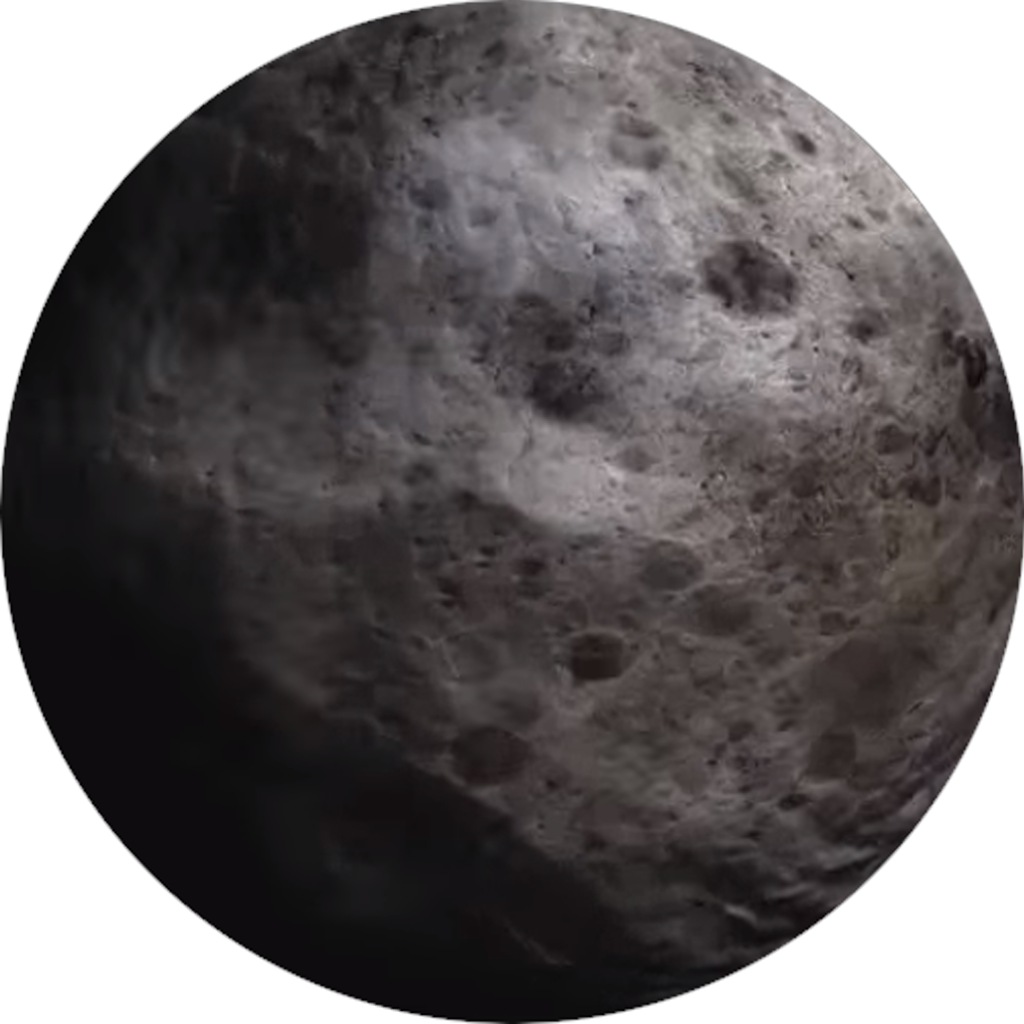
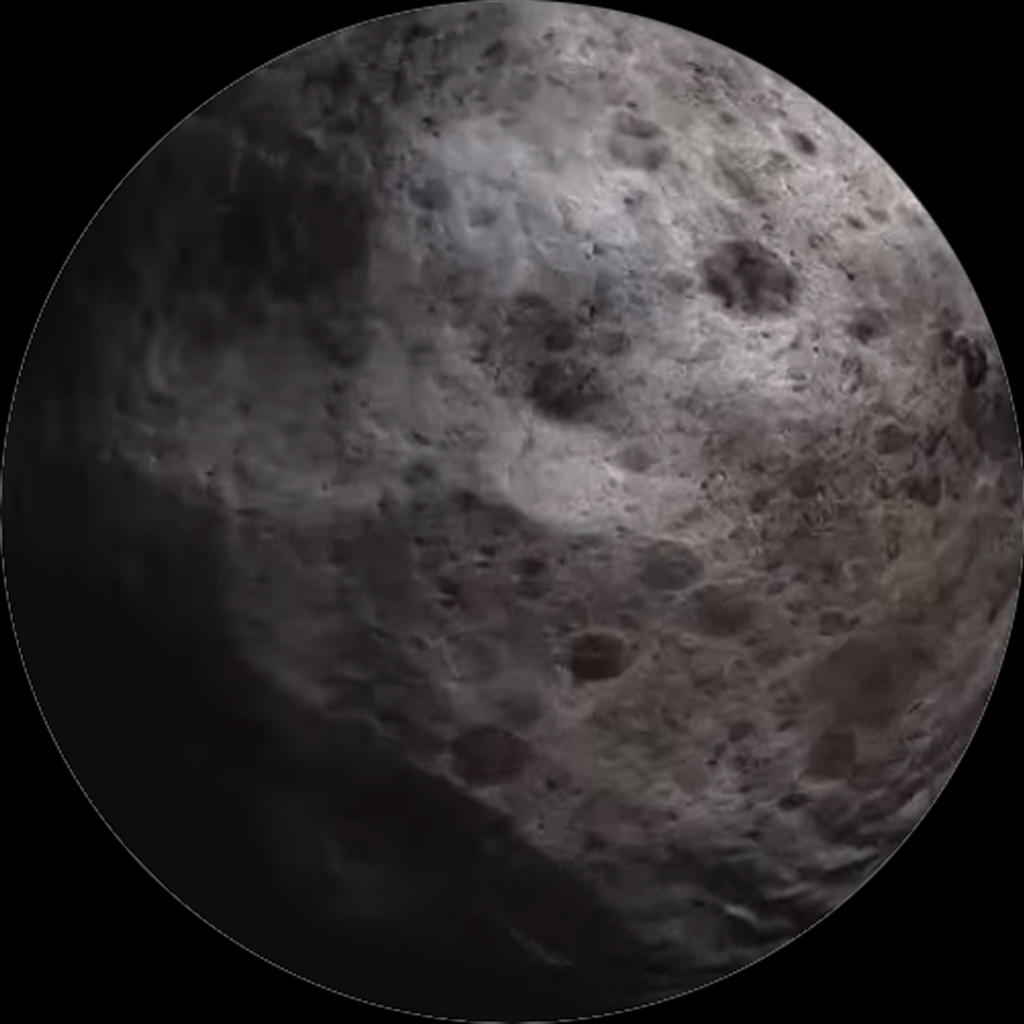
Fix invisible moons with minimum size, backing disc, and better art.
Enforce readable moon radius in Moons mode, hide obscure moons until
hard mode, add a color disc behind moon photos, and swap sources for
Nix, Hydra, Dysnomia, Namaka, and MK 2.

diff --git a/src/catalog.ts b/src/catalog.ts
@@ -436,6 +436,9 @@ export function isVisibleInMode(
   mode: GameMode,
   options: ModeOptions = { hardMode: false },
 ): boolean {
+  if (mode === "moons" && object.hardOnly && !options.hardMode) {
+    return false;
+  }
   if (mode !== "moons" || !options.parentIds?.length) {
     return true;
   }
@@ -453,6 +456,8 @@ export function isVisibleInMode(
 
 /** Moons in Planets mode are tiny scenery, not quiz targets. */
 export const PLANETS_MODE_MOON_SCALE = 0.32;
+/** Lit moons in Moons mode stay readable even when catalog size is small. */
+export const MOONS_MODE_MIN_RADIUS = 11;
 
 export function isDecorativeMoon(object: SolarObject, mode: GameMode): boolean {
   return (mode === "planets" || mode === "celestial") && object.type === "moon";
@@ -461,6 +466,9 @@ export function isDecorativeMoon(object: SolarObject, mode: GameMode): boolean {
 export function displayRadius(object: SolarObject, mode: GameMode): number {
   if (isDecorativeMoon(object, mode)) {
     return Math.max(3, object.displaySize * PLANETS_MODE_MOON_SCALE);
+  }
+  if (mode === "moons" && object.type === "moon") {
+    return Math.max(object.displaySize, MOONS_MODE_MIN_RADIUS);
   }
   if (
     mode === "celestial" &&

diff --git a/src/catalog.test.ts b/src/catalog.test.ts
@@ -184,6 +184,21 @@ describe("solar system catalog", () => {
     expect(isLitInMode(catalog.find((object) => object.id === "europa")!, "moons")).toBe(
       true,
     );
+    expect(
+      isVisibleInMode(catalog.find((object) => object.id === "charon")!, "moons"),
+    ).toBe(false);
+    expect(
+      isVisibleInMode(catalog.find((object) => object.id === "charon")!, "moons", {
+        hardMode: true,
+      }),
+    ).toBe(true);
+  });
+
+  it("keeps small moons readable in Moons mode", () => {
+    const kerberos = catalog.find((object) => object.id === "kerberos")!;
+    expect(kerberos.displaySize).toBeLessThan(11);
+    expect(displayRadius(kerberos, "moons")).toBe(11);
+    expect(displayRadius(kerberos, "planets")).toBeLessThan(11);
   });
 
   it("limits Moons mode to selected parent planets", () => {

diff --git a/src/BodyArt.tsx b/src/BodyArt.tsx
@@ -127,6 +127,9 @@ export function BodyArt({ id, radius, color, type = "planet" }: Props) {
         </clipPath>
       </defs>
       <g clipPath={`url(#${clipId})`}>
+        {type === "moon" ? (
+          <circle className="moon-backing" r={radius * 1.02} fill={color} />
+        ) : null}
         <image
           href={src}
           x={-radius * pad}

diff --git a/public/bodies/ATTRIBUTION.md b/public/bodies/ATTRIBUTION.md
@@ -25,8 +25,8 @@ Planet sticker art is original to Cosmica. Moon and celestial-body photos are pu
 | Oberon | Voyager 2 picture of Oberon.jpg |
 | Triton | Triton moon mosaic Voyager 2 (large).jpg |
 | Charon | Charon in True Color - High-Res.jpg |
-| Nix | Nix by New Horizons on 13 July 2015.jpg |
-| Hydra | Hydra (moon) 2015-7-15 (raw).jpg |
+| Nix | Nix viewed from New Horizons 2015-07-14 (cropped).jpg |
+| Hydra | Hydra true color map.png |
 | Kerberos | Kerberos (moon).jpg |
 | Styx | Styx (moon).jpg |
 | Amalthea | Jupiter's moon Amalthea photographed by Galileo.jpg |
@@ -35,9 +35,9 @@ Planet sticker art is original to Cosmica. Moon and celestial-body photos are pu
 | Puck | Puck, moon of Uranus (1986).png |
 | Proteus | Proteus (Voyager 2).jpg |
 | Nereid | Nereid - Voyager 2.jpg |
-| Dysnomia | Dysnomia-moon-transparent.png |
+| Dysnomia | Dysnomia-moon.png |
 | Hi'iaka | Hi'iakaMoon.png |
-| Namaka | NamakaMoon.png |
+| Namaka | Namaka Hubble.png |
 | MK 2 | Makemake moon Hubble image only.jpg |
 
 | Celestial body | Wikimedia file |

diff --git a/CHANGELOG.md b/CHANGELOG.md
@@ -7,6 +7,11 @@ and this project adheres to [Semantic Versioning](https://semver.org/spec/v2.0.0
 
 ## [Unreleased]
 
+## [0.16.4] - 2026-08-31
+
+### Fixed
+- Small and hard-to-see moons are easier to spot: minimum size in Moons mode, color backing disc, better images for Nix/Hydra/Dysnomia/Namaka, and obscure moons hidden until hard mode is on.
+
 ## [0.16.3] - 2026-08-30
 
 ### Fixed
